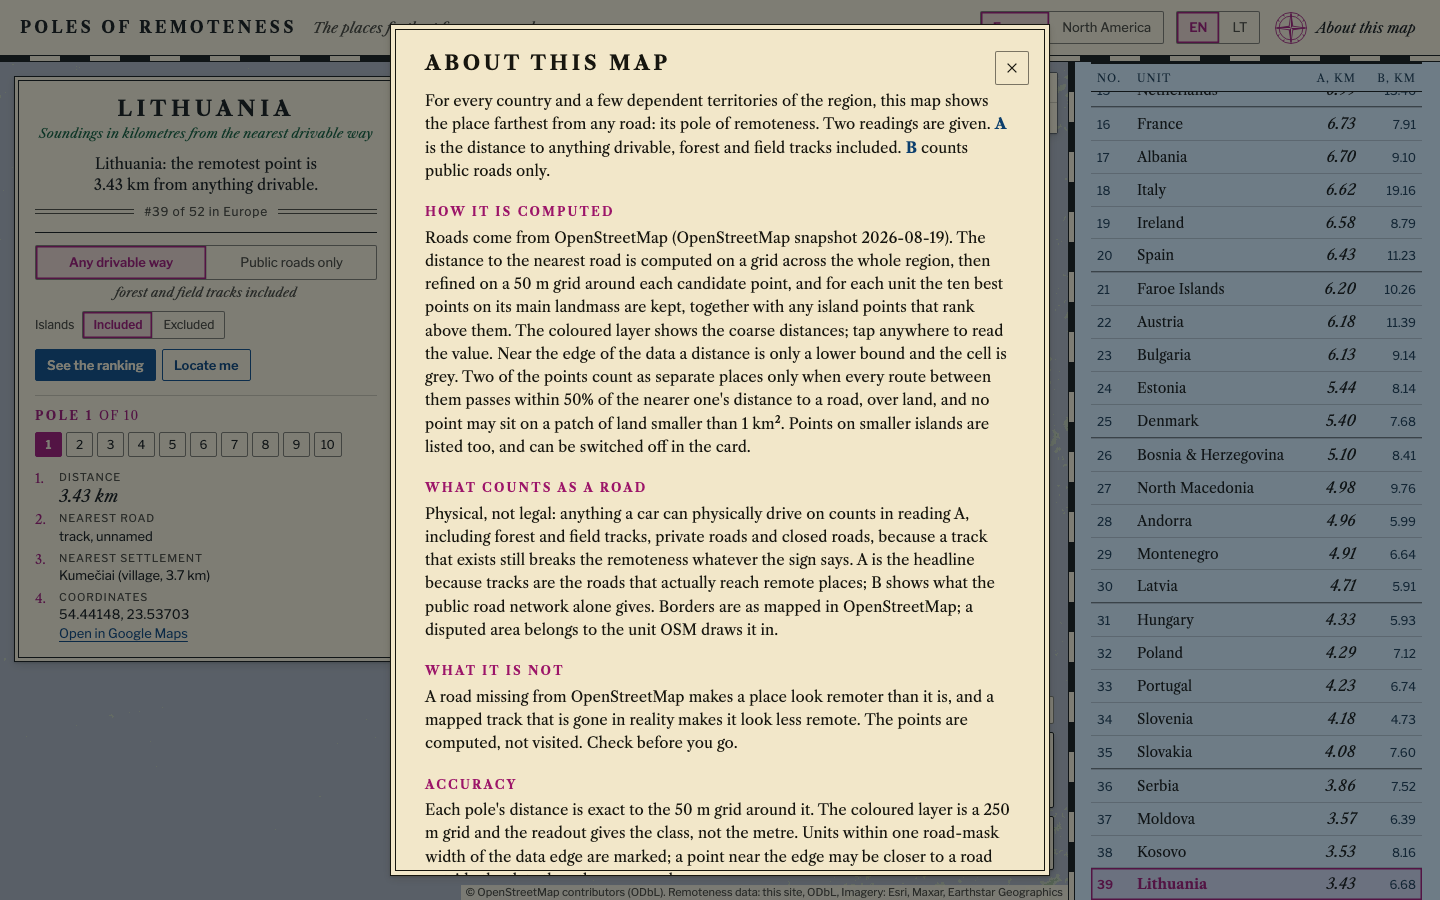
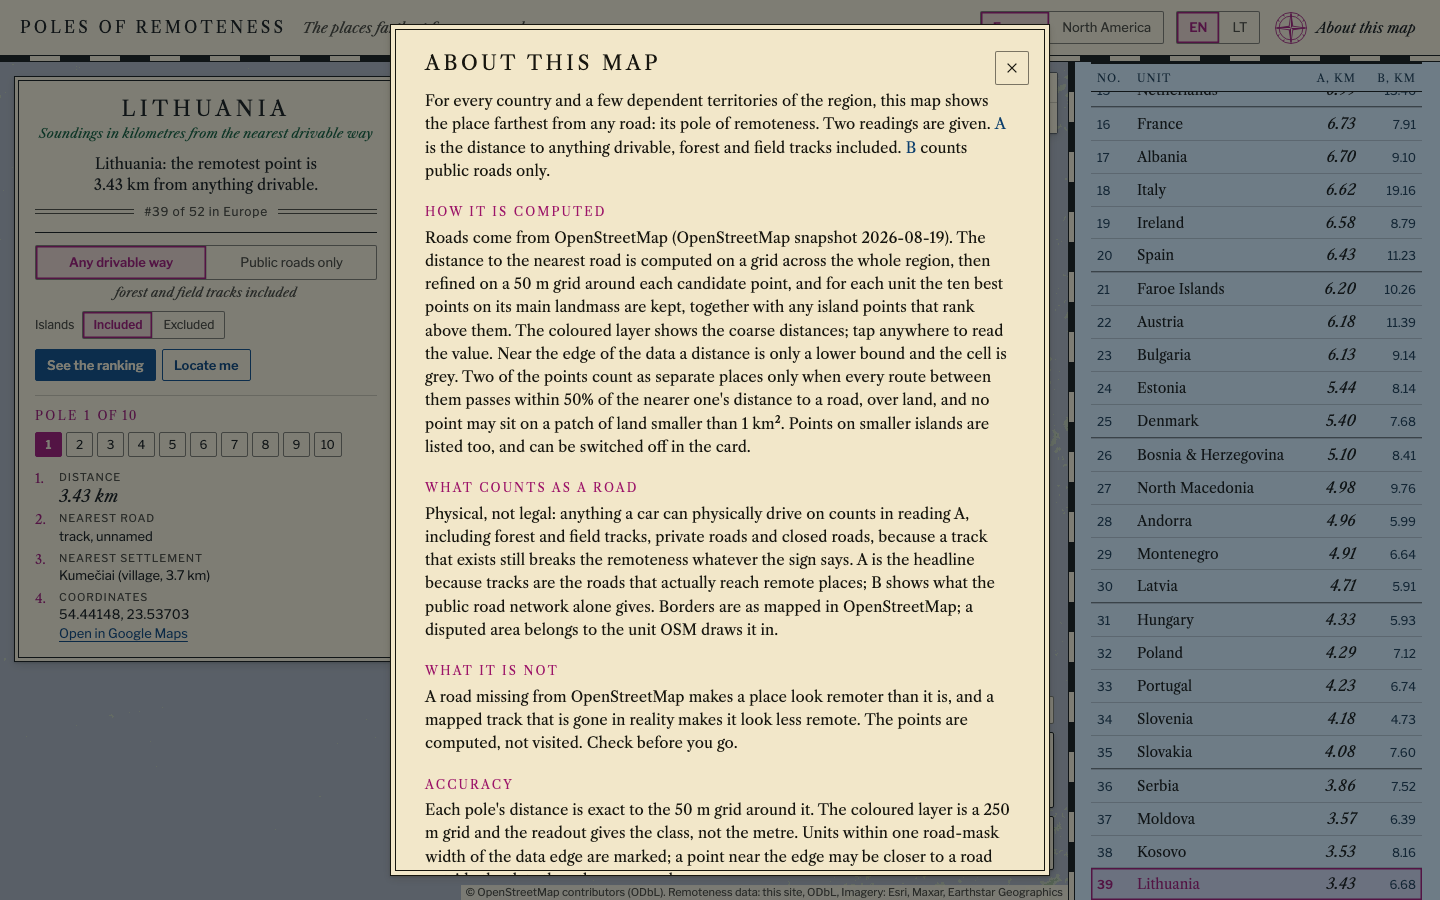
site: drop Caslon 700 to keep the first screen inside its budget (#60)
The preview measured 254,639 of 256,000 bytes at the edge with three
Caslon weights. The titles the 700 set are regular roman caps now, as
chart titles are, and font-synthesis-weight: none stops a faked bold.

diff --git a/site/css/app.css b/site/css/app.css
@@ -23,14 +23,6 @@
   src: url(/fonts/libre-caslon-text-400-italic-latin-ext.woff2) format("woff2");
   unicode-range: U+0100-02BA, U+02BD-02C5, U+02C7-02CC, U+02CE-02D7, U+02DD-02FF, U+0304, U+0308, U+0329,
     U+1D00-1DBF, U+1E00-1E9F, U+1EF2-1EFF, U+2020, U+20A0-20AB, U+20AD-20C0, U+2113, U+2C60-2C7F, U+A720-A7FF; }
-@font-face { font-family: "Libre Caslon Text"; font-style: normal; font-weight: 700; font-display: swap;
-  src: url(/fonts/libre-caslon-text-700-latin.woff2) format("woff2");
-  unicode-range: U+0000-00FF, U+0131, U+0152-0153, U+02BB-02BC, U+02C6, U+02DA, U+02DC, U+0304, U+0308, U+0329,
-    U+2000-206F, U+20AC, U+2122, U+2191, U+2193, U+2212, U+2215, U+FEFF, U+FFFD; }
-@font-face { font-family: "Libre Caslon Text"; font-style: normal; font-weight: 700; font-display: swap;
-  src: url(/fonts/libre-caslon-text-700-latin-ext.woff2) format("woff2");
-  unicode-range: U+0100-02BA, U+02BD-02C5, U+02C7-02CC, U+02CE-02D7, U+02DD-02FF, U+0304, U+0308, U+0329,
-    U+1D00-1DBF, U+1E00-1E9F, U+1EF2-1EFF, U+2020, U+20A0-20AB, U+20AD-20C0, U+2113, U+2C60-2C7F, U+A720-A7FF; }
 @font-face { font-family: "Libre Franklin"; font-style: normal; font-weight: 100 900; font-display: swap;
   src: url(/fonts/libre-franklin-var-latin.woff2) format("woff2");
   unicode-range: U+0000-00FF, U+0131, U+0152-0153, U+02BB-02BC, U+02C6, U+02DA, U+02DC, U+0304, U+0308, U+0329,
@@ -135,6 +127,9 @@
 
 *, *::before, *::after { box-sizing: border-box; }
 html, body { height: 100%; margin: 0; }
+/* Caslon ships in 400 and 400 italic only: chart titles are regular roman caps, and a bold the browser would
+   fake from the regular is refused so a 600 or 700 on serif text stays the drawn face. */
+html { font-synthesis-weight: none; }
 body {
   font: 14px/1.45 var(--sans);
   color: var(--ink);
@@ -173,7 +168,7 @@ a { color: var(--blue-ink); text-underline-offset: 3px; text-decoration-thicknes
   padding: 0 20px 7px; background: var(--paper);
 }
 .hdr__brand { display: flex; align-items: baseline; gap: 16px; min-width: 0; }
-.hdr__title { margin: 0; font: 700 16px/1.1 var(--serif); letter-spacing: .2em; text-transform: uppercase; white-space: nowrap; }
+.hdr__title { margin: 0; font: 400 16px/1.1 var(--serif); letter-spacing: .2em; text-transform: uppercase; white-space: nowrap; }
 .hdr__home { color: inherit; text-decoration: none; }
 .hdr__sub { margin: 0; font: italic 400 14px/1.2 var(--serif); color: var(--ink-2); white-space: nowrap; }
 .hdr__right { display: flex; align-items: center; gap: 12px; }
@@ -240,7 +235,7 @@ a { color: var(--blue-ink); text-underline-offset: 3px; text-decoration-thicknes
 .card:focus-visible { outline-offset: 2px; }
 .card-summary { display: none; }
 .cartouche { text-align: center; padding-bottom: 12px; margin-bottom: 12px; border-bottom: 1px solid var(--ink); }
-.cartouche__name { margin: 2px 0 4px; font: 700 21px/1.15 var(--serif); letter-spacing: .22em; text-transform: uppercase;
+.cartouche__name { margin: 2px 0 4px; font: 400 21px/1.15 var(--serif); letter-spacing: .22em; text-transform: uppercase;
   text-wrap: balance; }
 .cartouche__sub { margin: 0 0 10px; font: italic 400 13px/1.35 var(--serif); color: var(--depth-ink); text-wrap: balance; }
 .card__headline { margin: 0 0 8px; font: 400 15px/1.4 var(--serif); text-wrap: balance; }
@@ -265,7 +260,7 @@ a { color: var(--blue-ink); text-underline-offset: 3px; text-decoration-thicknes
 
 /* The pole facts as the chart's numbered NOTES */
 .card__poles { border-top: 1px solid var(--hair); padding-top: 12px; }
-.card__pole-title { margin: 0 0 8px; font: 700 12px/1.3 var(--serif); letter-spacing: .2em; text-transform: uppercase; color: var(--magenta); }
+.card__pole-title { margin: 0 0 8px; font: 400 12px/1.3 var(--serif); letter-spacing: .2em; text-transform: uppercase; color: var(--magenta); }
 .card__of { font-weight: 400; letter-spacing: .12em; }
 .chips { display: flex; flex-wrap: wrap; gap: 4px; margin-bottom: 10px; }
 .chip { border: 1px solid var(--hair-strong); background: transparent; border-radius: var(--r); min-width: 27px; height: 25px;
@@ -357,8 +352,8 @@ a { color: var(--blue-ink); text-underline-offset: 3px; text-decoration-thicknes
 .about__close:hover { background: var(--paper-2); }
 .about__close svg { width: 14px; height: 14px; fill: none; stroke: var(--ink); stroke-width: 1.5; }
 .about__body { max-width: 68ch; }
-.about__body h2 { font: 700 20px/1.2 var(--serif); letter-spacing: .18em; text-transform: uppercase; margin: 0 0 14px; }
-.about__body h3 { font: 700 12px/1.3 var(--serif); letter-spacing: .18em; text-transform: uppercase; color: var(--magenta);
+.about__body h2 { font: 400 20px/1.2 var(--serif); letter-spacing: .18em; text-transform: uppercase; margin: 0 0 14px; }
+.about__body h3 { font: 400 12px/1.3 var(--serif); letter-spacing: .18em; text-transform: uppercase; color: var(--magenta);
   margin: 22px 0 6px; }
 .about__body p { margin: 0 0 10px; font: 400 15px/1.55 var(--serif); }
 .about__body b { font-weight: 700; color: var(--blue-ink); }
@@ -397,14 +392,14 @@ html[lang="en"] .about__body [data-lang="lt"], html[lang="lt"] .about__body [dat
   .card-summary[hidden] { display: none; }
   .card-summary:not([hidden]) ~ .panel__handle-text { display: none; }
   .card-summary__line { display: flex; align-items: baseline; gap: 8px; }
-  .card-summary__name { flex: 1; min-width: 0; font: 700 15px/1.3 var(--serif); letter-spacing: .18em; text-transform: uppercase; }
+  .card-summary__name { flex: 1; min-width: 0; font: 400 15px/1.3 var(--serif); letter-spacing: .18em; text-transform: uppercase; }
   .card-summary__none { display: block; font: 400 15px/1.3 var(--serif); }
   .card-summary__dist { flex: none; font-weight: 400; white-space: nowrap; color: var(--depth-ink); }
   /* The closed sheet states the figure plainly, in the headline's decimal: the sounding stays on the map. */
   .card-summary__km { font: italic 400 21px/1 var(--serif); }
   .card-summary__s { font: 400 12px/1 var(--sans); color: var(--ink-2); }
   .card-summary__rank { display: block; font-size: 12px; color: var(--ink-2); }
-  .panel__handle-text { font: 700 13px/1.3 var(--serif); letter-spacing: .18em; text-transform: uppercase; }
+  .panel__handle-text { font: 400 13px/1.3 var(--serif); letter-spacing: .18em; text-transform: uppercase; }
   .panel--collapsed .panel__body { display: none; }
   .panel__body { --pad-top: 14px; padding: var(--pad-top) 16px 20px; background: var(--paper); }
   .panel .card { position: static; width: auto; max-height: none; overflow: visible; padding: 0 0 14px; margin: 0 0 14px;

diff --git a/docs/DECISIONS.md b/docs/DECISIONS.md
@@ -243,6 +243,6 @@ Made while turning `docs/EUROPE_PLAN.md` Stage 4 into the step-level plan (`docs
 
 **Context.** The owner asked for five to ten redesign options and got eight working prototypes on branch `ui-options` (star atlas, orienteering map, sea chart, park brochure, handheld GPS, screenprint, survey sheet, and a conventional map app), each a full copy of `site/` on the real data, compared in a screenshot gallery. He picked option 03, the sea chart, with the map colours of option 04, the park brochure, a little greener.
 
-**Decision.** (1) The site takes the chart's grammar: a buff margin strip with a graduated neatline, the card as the chart's title block (the unit in spaced capitals, a subtitle saying what the figures measure, the headline sentence, the rank where a chart draws its scale line) and the pole facts as its numbered notes, pole markers written as soundings (whole kilometres full size, hundredths small and lowered), the ranking as a ruled table with column heads, the legend as a stepped depth scale, the tap readout written as a sounding, a compass rose for About, and a night-chart dark mode. (2) The depth ramp is green, not chart blue: the six bands run from a pale green-tan to a deep forest green (light `#e5e7bb` to `#024a28`, alpha .74; dark `#62764e` to `#84dd98`, brighter with distance, alpha .76), over the satellite desaturated as in option 04 (`saturate(.42) contrast(.94) brightness(1.03)`; at night brightness .62, because at option 04's .74 the nearest band vanished on dark land). A blue ramp on land read as water or ice at a glance, which was the prototype's own named risk; green reads as land. Chart blue stays for buttons and links, magenta for the selection. (3) Flags leave the card, the phone summary and the ranking; the chart names its units in lettering. (4) The faces are self-hosted, not loaded from Google Fonts: Libre Caslon Text 400, 400 italic and 700 and Libre Franklin (variable), Latin and Latin Extended subsets, 138,744 bytes of woff2 under SIL OFL; the CI first-screen list names all eight files, because a Lithuanian visitor loads every latin-ext subset, and the first screen measures 245,285 bytes (gzip -9, locally; CI measures what the edge serves) of the 256,000 budget (248,788 after the review fixes). (5) Soundings that would collide are not written: after every placement, selection and zoom the figures are laid best pole first and a figure that would overprint one already placed is hidden, its dot and number box kept; on phones only the selected pole writes its figure at all. Each figure carries a visually hidden decimal separator, so a screen reader hears 3.43, not 343. (6) The bands carry an alpha each (`--band-alpha-1..6`, .50 to .80 by day), so the near bands let the ground show. At zoom 12 and closer the coarse layer leaves every window a detail raster is showing empty, because the two translucent layers stacked doubled the tint and hid the terrain around the pole; the detail raster answers for every land cell of its window, and a fringe of up to one coarse pixel can still stack at its edge. (7) On desktop a unit is fitted into the map area right of the measured card and clear of the legend, because the taller title block covered Alaska's headline pole.
+**Decision.** (1) The site takes the chart's grammar: a buff margin strip with a graduated neatline, the card as the chart's title block (the unit in spaced capitals, a subtitle saying what the figures measure, the headline sentence, the rank where a chart draws its scale line) and the pole facts as its numbered notes, pole markers written as soundings (whole kilometres full size, hundredths small and lowered), the ranking as a ruled table with column heads, the legend as a stepped depth scale, the tap readout written as a sounding, a compass rose for About, and a night-chart dark mode. (2) The depth ramp is green, not chart blue: the six bands run from a pale green-tan to a deep forest green (light `#e5e7bb` to `#024a28`, alpha .74; dark `#62764e` to `#84dd98`, brighter with distance, alpha .76), over the satellite desaturated as in option 04 (`saturate(.42) contrast(.94) brightness(1.03)`; at night brightness .62, because at option 04's .74 the nearest band vanished on dark land). A blue ramp on land read as water or ice at a glance, which was the prototype's own named risk; green reads as land. Chart blue stays for buttons and links, magenta for the selection. (3) Flags leave the card, the phone summary and the ranking; the chart names its units in lettering. (4) The faces are self-hosted, not loaded from Google Fonts: Libre Caslon Text 400 and 400 italic and Libre Franklin (variable), Latin and Latin Extended subsets, 111,768 bytes of woff2 under SIL OFL; the CI first-screen list names all six files, because a Lithuanian visitor loads every latin-ext subset. With Caslon's 700 weight as well the preview measured 254,639 of the 256,000 bytes at the edge, so the 700 went: the titles it set (the header, the unit name, the About headings) are regular roman caps, as chart titles are, and `font-synthesis-weight: none` keeps the browser from faking a bold. (5) Soundings that would collide are not written: after every placement, selection and zoom the figures are laid best pole first and a figure that would overprint one already placed is hidden, its dot and number box kept; on phones only the selected pole writes its figure at all. Each figure carries a visually hidden decimal separator, so a screen reader hears 3.43, not 343. (6) The bands carry an alpha each (`--band-alpha-1..6`, .50 to .80 by day), so the near bands let the ground show. At zoom 12 and closer the coarse layer leaves every window a detail raster is showing empty, because the two translucent layers stacked doubled the tint and hid the terrain around the pole; the detail raster answers for every land cell of its window, and a fringe of up to one coarse pixel can still stack at its edge. (7) On desktop a unit is fitted into the map area right of the measured card and clear of the legend, because the taller title block covered Alaska's headline pole.
 
-**Alternatives.** The orienteering map was the recommended option and stays on `ui-options` with the other six, as does the gallery (`design/gallery/`). A third-party font host was rejected for privacy and for the budget measurement, which could not see it. Dropping a weight to widen the budget's headroom was not needed yet; it is the first lever when the page grows (the 700 weight of Caslon is the cheapest to lose).
+**Alternatives.** The orienteering map was the recommended option and stays on `ui-options` with the other six, as does the gallery (`design/gallery/`). A third-party font host was rejected for privacy and for the budget measurement, which could not see it. Keeping the 700 and raising the budget was rejected: the budget is the promise that the first screen stays light on a phone connection, and a bold is not worth moving it.

diff --git a/site/fonts/README.md b/site/fonts/README.md
@@ -4,9 +4,11 @@ No request goes to Google Fonts at runtime: these files are served from the site
 
 | Family | Faces | Files | Licence |
 |---|---|---|---|
-| Libre Caslon Text | 400, 400 italic, 700 | `libre-caslon-text-{400,400-italic,700}-{latin,latin-ext}.woff2` | SIL OFL 1.1 |
+| Libre Caslon Text | 400, 400 italic | `libre-caslon-text-{400,400-italic}-{latin,latin-ext}.woff2` | SIL OFL 1.1 |
 | Libre Franklin | 400 to 600 (one variable file per subset, wght axis 100 to 900) | `libre-franklin-var-{latin,latin-ext}.woff2` | SIL OFL 1.1 |
 
-Source: the woff2 files Google Fonts serves for `https://fonts.googleapis.com/css2?family=Libre+Caslon+Text:ital,wght@0,400;0,700;1,400&family=Libre+Franklin:wght@400;600&display=swap` to a current Chrome User-Agent (Libre Caslon Text v5, Libre Franklin v20), downloaded 2026-09-29. Only the latin and latin-ext subsets are kept; both latin-ext files cover ą č ę ė į š ų ū ž and their capitals.
+Source: the woff2 files Google Fonts serves for `https://fonts.googleapis.com/css2?family=Libre+Caslon+Text:ital,wght@0,400;0,700;1,400&family=Libre+Franklin:wght@400;600&display=swap` to a current Chrome User-Agent (Libre Caslon Text v5, Libre Franklin v20), downloaded 2026-09-29. Only the latin and latin-ext subsets are kept; every latin-ext file covers ą č ę ė į š ų ū ž and their capitals.
 
 Licence: `OFL.txt` (both families are under the SIL Open Font License 1.1). Upstream: https://github.com/thundernixon/Libre-Caslon and https://github.com/googlefonts/Libre-Franklin.
+
+The 700 weight of Libre Caslon Text was dropped on 2026-09-29 for the first-screen budget; the titles it set are regular roman caps now.
